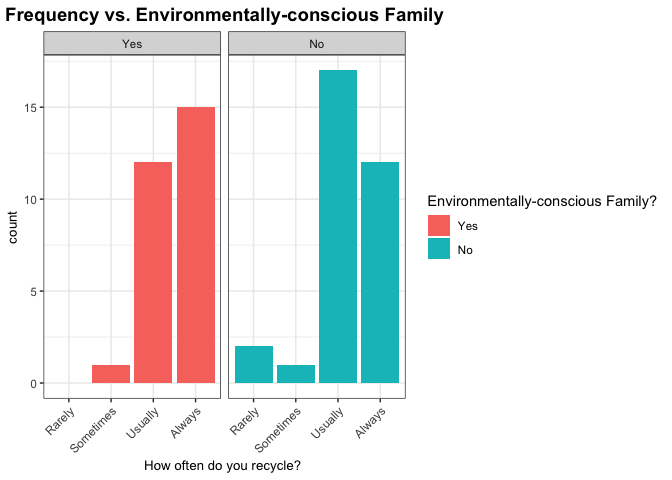
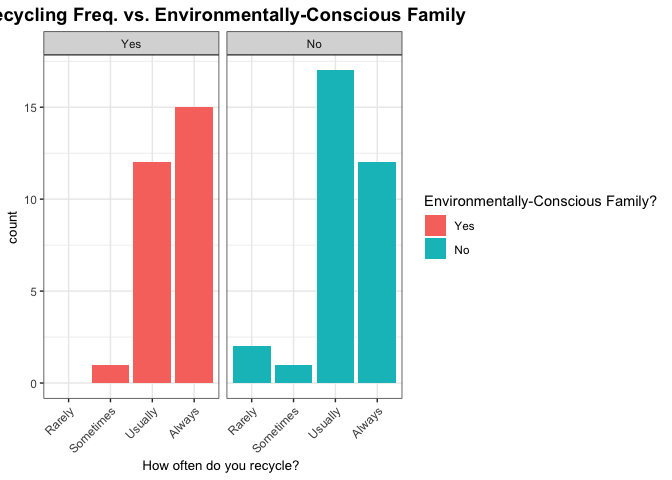
Switch the order of the last two plots

diff --git a/Milestone2/Milestone2_EDA.md b/Milestone2/Milestone2_EDA.md
@@ -79,8 +79,8 @@ tidy_data %>%
   facet_grid(~Q4) +
   theme_bw() +
   labs(x = "How often do you recycle? ",
-       title = "Frequency vs. Environmentally-conscious Family") +
-  scale_fill_discrete(name = "Environmentally-conscious Family?") +
+       title = "Recycling Freq. vs. Environmentally-Conscious Family") +
+  scale_fill_discrete(name = "Environmentally-Conscious Family?") +
   theme(plot.title = element_text(size = 14, face = "bold", hjust = 0.5),
         axis.text.x = element_text(size = 9, angle = 45, hjust = 1),
         axis.title = element_text(size = 10))
@@ -120,6 +120,37 @@ qplot(tidy_data$Q3, tidy_data$Q1_1, geom="boxplot") +
 > Analyzing the boxplots above is easy to see that older people (`35-39` and `40+` groups) consider sustainability more important than younger groups, having a higher mean (~9 in a scale from 1-10) and narrower range. Additionaly, the other 3 groups (`20-24`, `25-29` and `30-34`) have one outlier each, where at least one respondent of each of these groups evaluated sustainability with a considerable lower importance in comparison with the other participants from their respective group. However, it's important to take into account that we have fewer responses from the second oldest age group, which can distort the analysis. Further analysis with confidence intervals is warranted.
 
 ``` r
+p1 <- tidy_data %>%
+  ggplot(aes(Q1_1)) +
+  geom_bar(fill = "cyan3", bins = 10) +
+  scale_x_continuous(breaks = c(1:10)) +
+  ylim(0, 16) +
+  labs(title = "Rating before watching the video", x = "Ratings") +
+  theme_bw() +
+  theme(plot.title = element_text(size = 14, face = "bold", hjust = 0.5),
+        axis.text = element_text(size = 13),
+        axis.title = element_text(size = 11))
+
+p2 <- tidy_data %>%
+  filter(Q5 %in% 'Have watched') %>%
+  ggplot(aes(Q6_1)) +
+  geom_bar(fill = "pink3" ,bins = 10) +
+  scale_x_continuous(breaks = c(1:10),limits=c(1, 11)) +
+  ylim(0, 16) +
+  labs(title = "Rating after watching the video", y = "", x = "Ratings") +
+  theme_bw() +
+  theme(plot.title = element_text(size = 14, face = "bold", hjust = 0.5),
+        axis.text = element_text(size = 14),
+        axis.title = element_text(size = 11))
+
+grid.arrange(p1, p2, nrow = 1)
+```
+
+![](Milestone2_EDA_files/imgs/grouped%20bar-1.png)
+
+> These histograms show that there was a slight shift in ratings towards more positive ratings after watching the video. Further analysis with confidence intervals will follow.
+
+``` r
 # self rank before and after watching the video for recycling frequency, for respondents who watched the video
 tidy_data %>% filter(Q5 %in% 'Have watched') %>% 
   ggplot(aes(x = Q1_1, y = Q6_1, color = Q2), alpha = 0.5) +
@@ -156,34 +187,3 @@ tidy_data %>% filter(Q5 %in% 'Have watched') %>%
 ![](Milestone2_EDA_files/imgs/plot%20self%20rank%20before%20and%20after%20watching%20the%20video%20for%20recycling%20frequency%20and%20age%20group-2.png)
 
 > Looking only at the respondents who reported having watched the video, most of them changed their opinion on how sustainable they think they are in the positive direction, as evidenced by the higher number of points above the diagonal line. There was only one respondents who scored less after watching the video. Respondents who scored more after the watching the video are the ones who usually recycle. Respondents scores do not appear to be affected by age group. There may be other underlying confounding factors in which we did not capture in our data collection.
-
-``` r
-p1 <- tidy_data %>%
-  ggplot(aes(Q1_1)) +
-  geom_bar(fill = "cyan3", bins = 10) +
-  scale_x_continuous(breaks = c(1:10)) +
-  ylim(0, 16) +
-  labs(title = "Rating before watching the video", x = "Ratings") +
-  theme_bw() +
-  theme(plot.title = element_text(size = 14, face = "bold", hjust = 0.5),
-        axis.text = element_text(size = 13),
-        axis.title = element_text(size = 11))
-
-p2 <- tidy_data %>%
-  filter(Q5 %in% 'Have watched') %>%
-  ggplot(aes(Q6_1)) +
-  geom_bar(fill = "pink3" ,bins = 10) +
-  scale_x_continuous(breaks = c(1:10),limits=c(1, 11)) +
-  ylim(0, 16) +
-  labs(title = "Rating after watching the video", y = "", x = "Ratings") +
-  theme_bw() +
-  theme(plot.title = element_text(size = 14, face = "bold", hjust = 0.5),
-        axis.text = element_text(size = 14),
-        axis.title = element_text(size = 11))
-
-grid.arrange(p1, p2, nrow = 1)
-```
-
-![](Milestone2_EDA_files/imgs/grouped%20bar-1.png)
-
-> These histograms show that there was a slight shift in ratings towards more positive ratings after watching the video. Further analysis with confidence intervals will follow.
